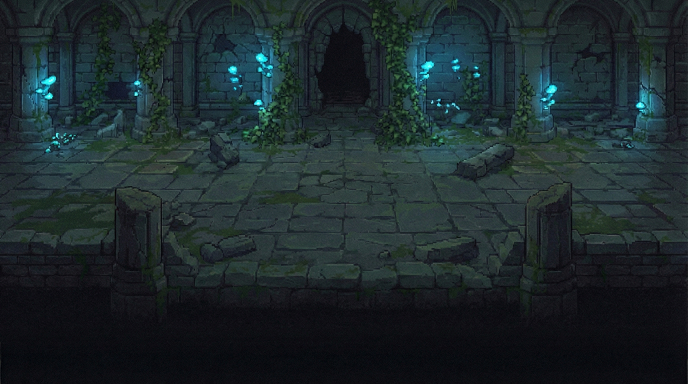
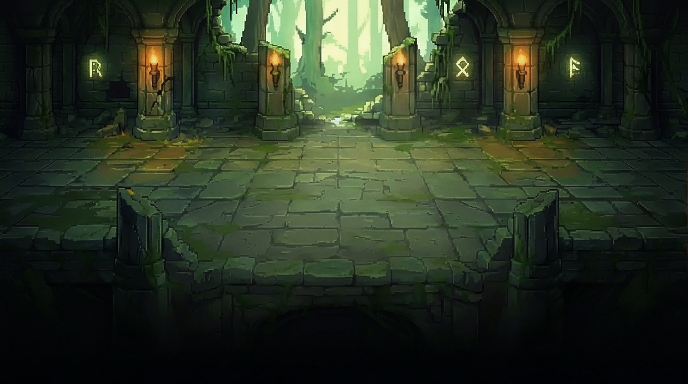
배경 전환 페이드 효과 및 거울 반복 적용
- 지형 카드로 배경 변경 시 0.5초 페이드 인 효과
- 배경 좌우 거울 반복으로 이음새 자연스럽게 처리

diff --git a/src/components/combat/CombatScreen.tsx b/src/components/combat/CombatScreen.tsx
@@ -590,7 +590,39 @@ export function CombatScreen() {
   };
 
   // 활성 지형이 있으면 해당 배경, 없으면 기본 배경
-  const bgImage = activeTerrain && terrainBgMap[activeTerrain] ? terrainBgMap[activeTerrain] : defaultBgImage;
+  const targetBgImage = activeTerrain && terrainBgMap[activeTerrain] ? terrainBgMap[activeTerrain] : defaultBgImage;
+
+  // 배경 전환 애니메이션 상태
+  const [displayedBg, setDisplayedBg] = useState(targetBgImage);
+  const [nextBg, setNextBg] = useState<string | null>(null);
+  const [bgOpacity, setBgOpacity] = useState(0);
+
+  // 배경 변경 감지 및 전환 애니메이션
+  useEffect(() => {
+    if (targetBgImage !== displayedBg && !nextBg) {
+      // 새 배경 설정, opacity 0에서 시작
+      setNextBg(targetBgImage);
+      setBgOpacity(0);
+      // 다음 프레임에서 opacity 1로 전환
+      requestAnimationFrame(() => {
+        requestAnimationFrame(() => {
+          setBgOpacity(1);
+        });
+      });
+    }
+  }, [targetBgImage, displayedBg, nextBg]);
+
+  // 전환 완료 후 배경 교체
+  useEffect(() => {
+    if (bgOpacity === 1 && nextBg) {
+      const timer = setTimeout(() => {
+        setDisplayedBg(nextBg);
+        setNextBg(null);
+        setBgOpacity(0);
+      }, 500);
+      return () => clearTimeout(timer);
+    }
+  }, [bgOpacity, nextBg]);
 
   // 전투 인트로 상태
   const [showIntro, setShowIntro] = useState(true);
@@ -1838,17 +1870,52 @@ export function CombatScreen() {
         className={`w-full h-screen combat-arena-base vignette flex flex-col relative overflow-hidden ${isShaking ? `screen-shake-${screenShakeIntensity}` : ''}`}
         onClick={handlePlayAreaClick}
       >
-        {/* 배경 이미지 (pixelated 렌더링) */}
-        <div
-          className="absolute inset-0 z-0 pointer-events-none"
-          style={{
-            backgroundImage: `url(${bgImage})`,
-            backgroundSize: 'auto 100%',
-            backgroundPosition: 'center',
-            backgroundRepeat: 'repeat-x',
-            imageRendering: 'pixelated',
-          }}
-        />
+        {/* 현재 배경 (거울 반복: 왼쪽 거울 + 가운데 원본 + 오른쪽 거울) */}
+        <div className="absolute inset-0 z-0 pointer-events-none flex justify-center">
+          {[-1, 0, 1].map(i => (
+            <div
+              key={i}
+              style={{
+                flex: '0 0 auto',
+                width: '100vh',
+                height: '100%',
+                backgroundImage: `url(${displayedBg})`,
+                backgroundSize: 'auto 100%',
+                backgroundPosition: 'center',
+                backgroundRepeat: 'no-repeat',
+                imageRendering: 'pixelated',
+                transform: i === 0 ? 'none' : 'scaleX(-1)',
+              }}
+            />
+          ))}
+        </div>
+        {/* 새 배경 (페이드 인, 거울 반복) */}
+        {nextBg && (
+          <div
+            className="absolute inset-0 z-0 pointer-events-none flex justify-center"
+            style={{
+              opacity: bgOpacity,
+              transition: 'opacity 0.5s ease-in-out',
+            }}
+          >
+            {[-1, 0, 1].map(i => (
+              <div
+                key={i}
+                style={{
+                  flex: '0 0 auto',
+                  width: '100vh',
+                  height: '100%',
+                  backgroundImage: `url(${nextBg})`,
+                  backgroundSize: 'auto 100%',
+                  backgroundPosition: 'center',
+                  backgroundRepeat: 'no-repeat',
+                  imageRendering: 'pixelated',
+                  transform: i === 0 ? 'none' : 'scaleX(-1)',
+                }}
+              />
+            ))}
+          </div>
+        )}
         {/* 데미지 팝업 */}
         <DamagePopupManager
           popups={damagePopups}
